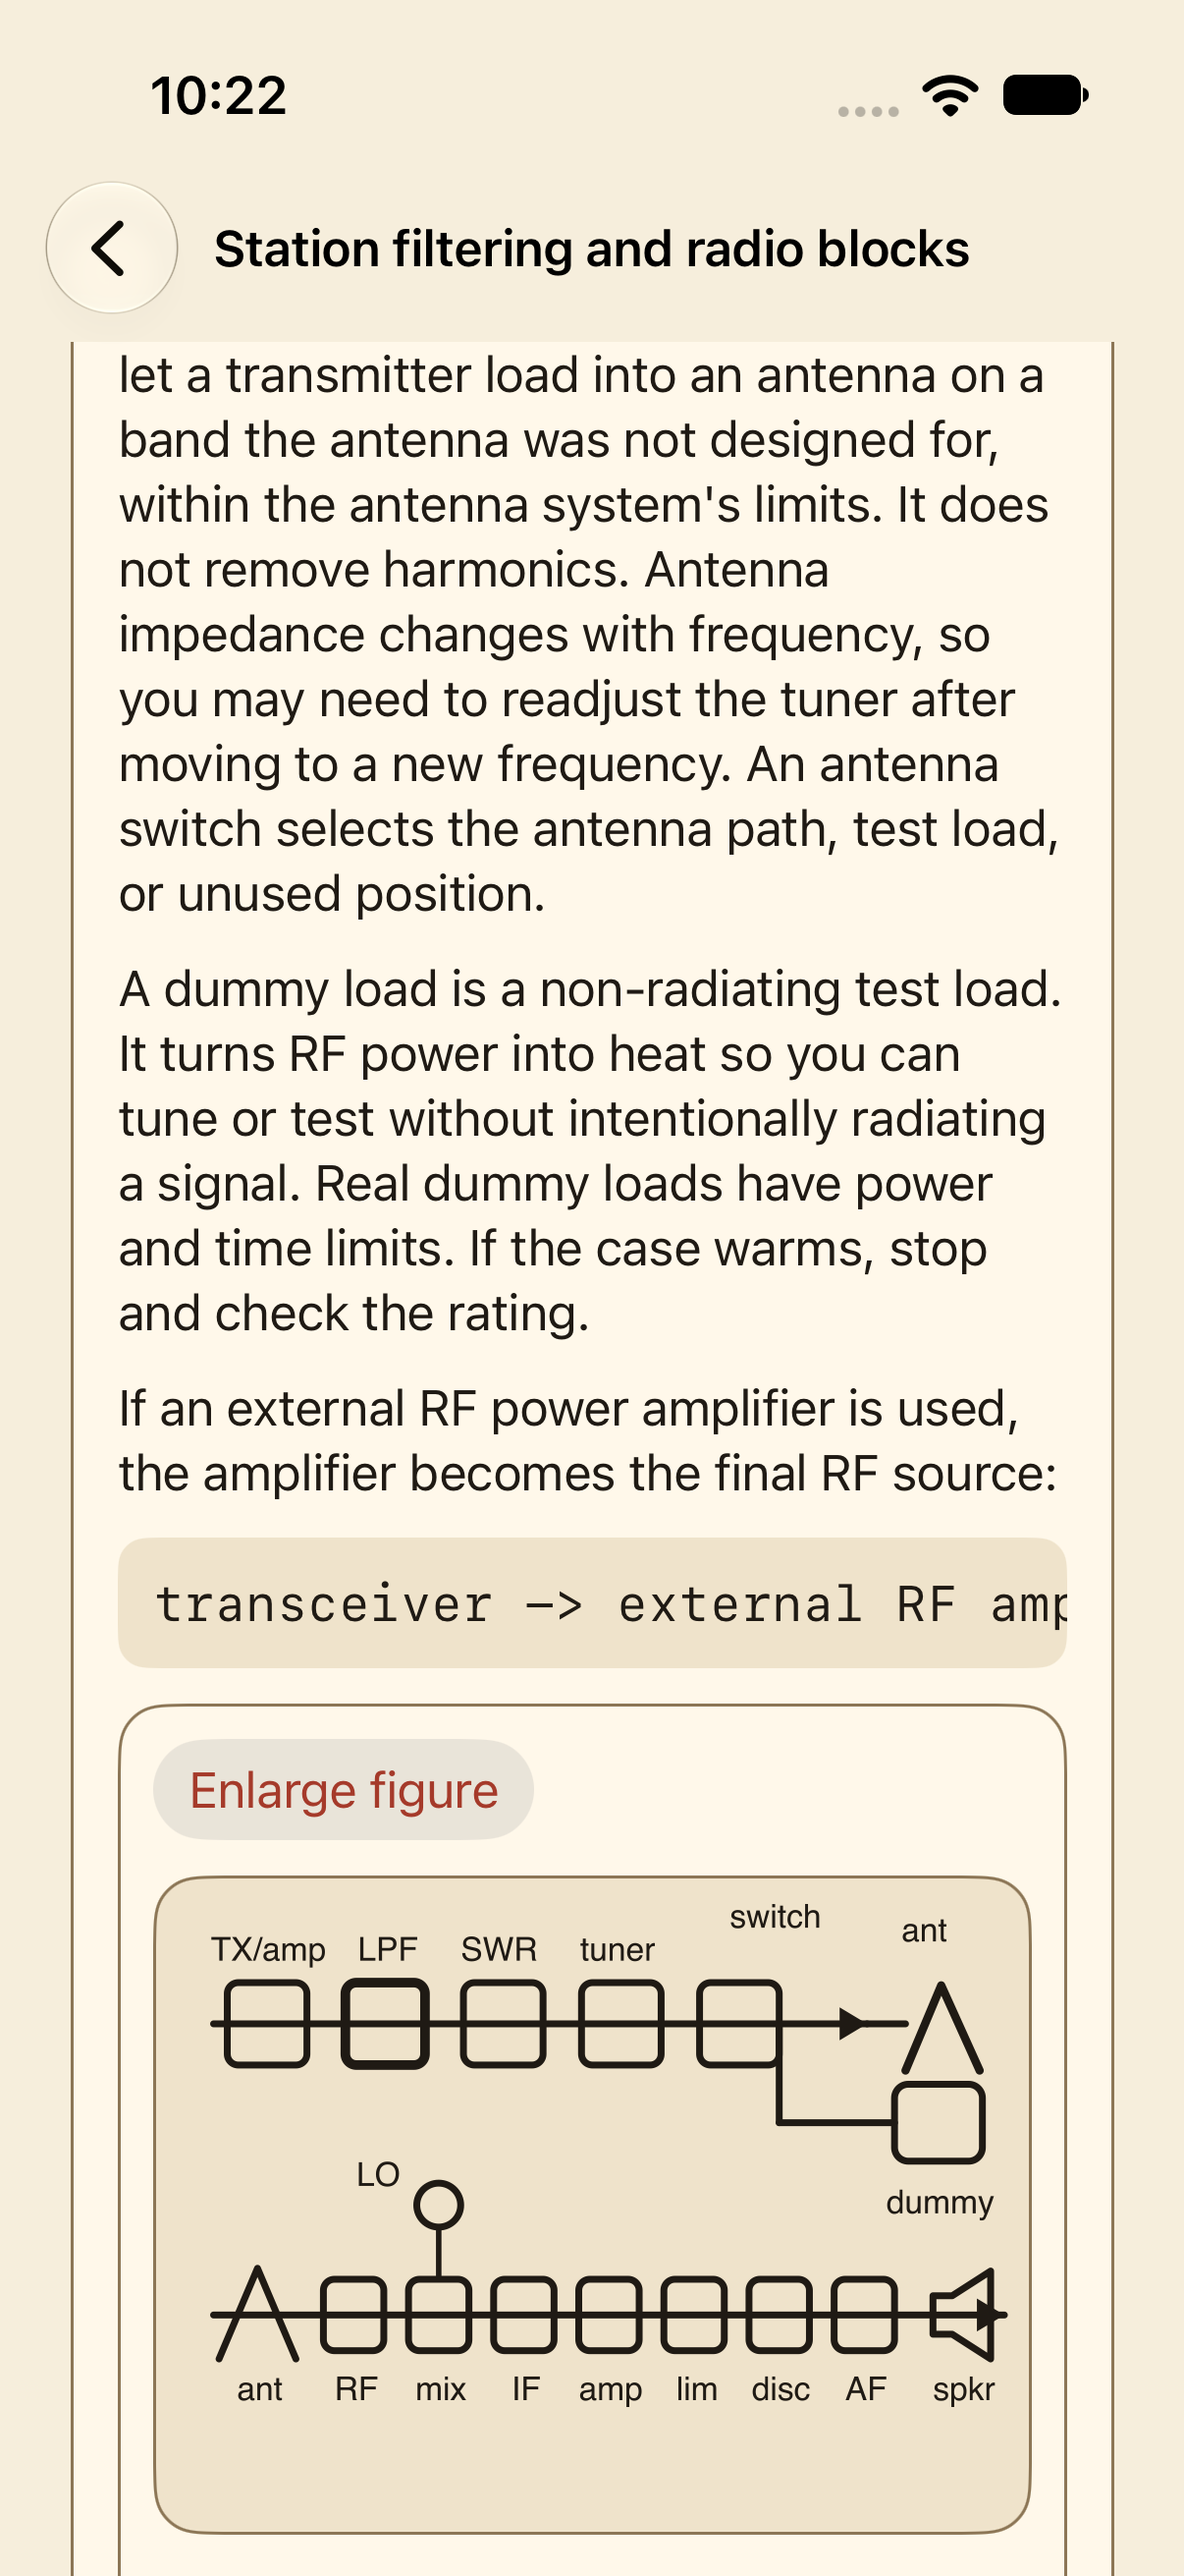
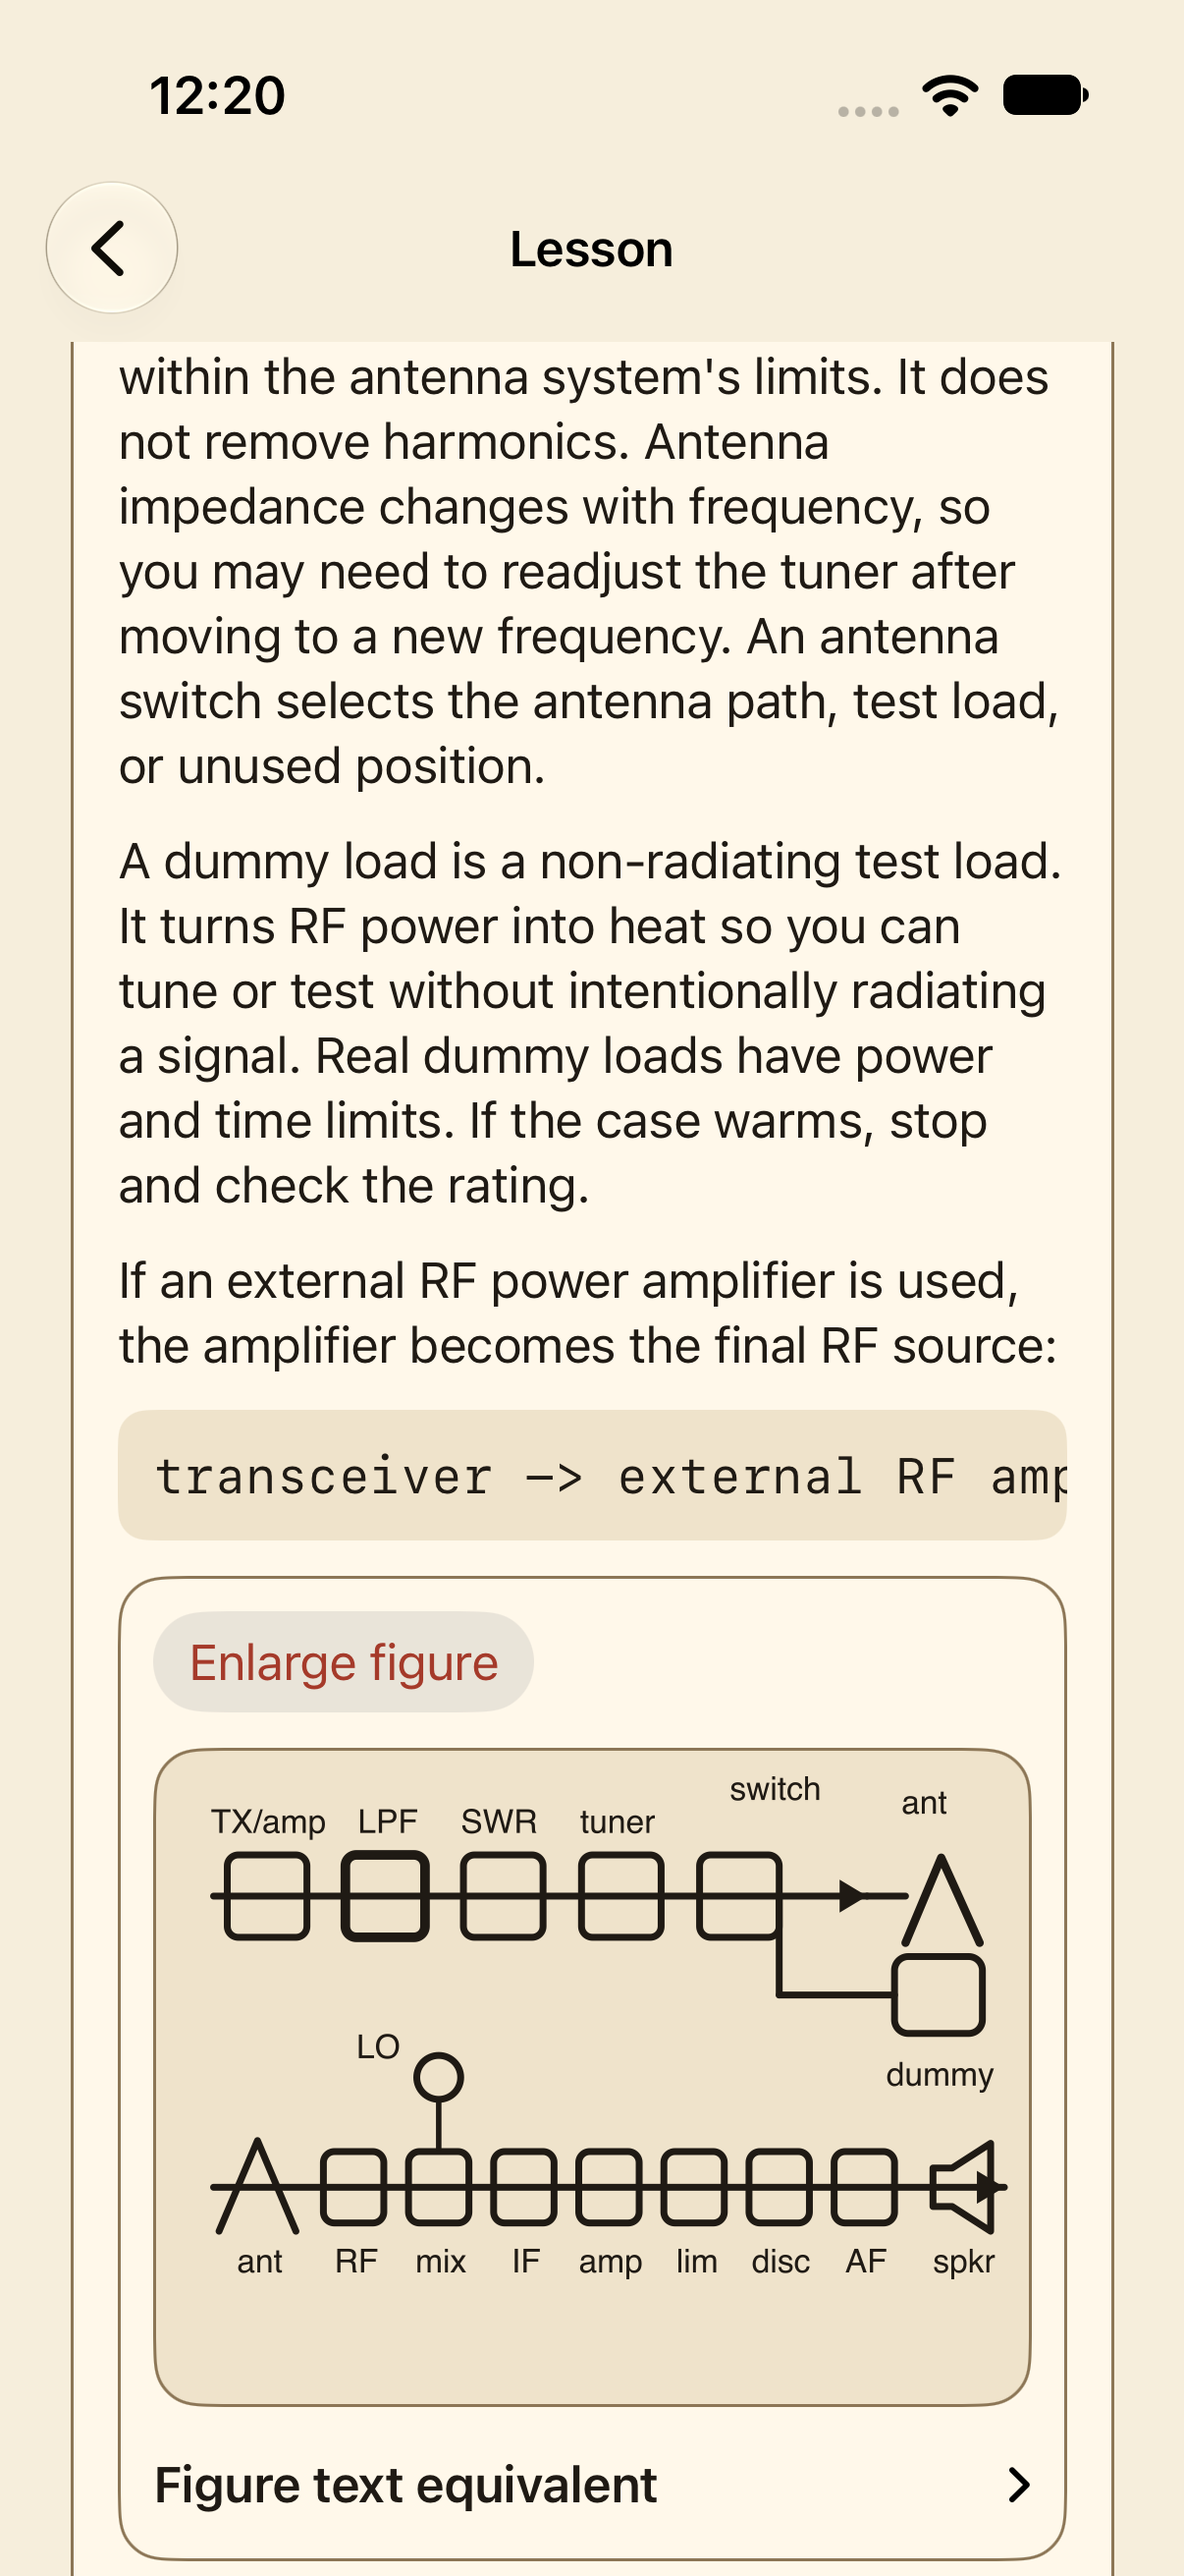
task-38: refresh figure evidence

Changed region(s): [[0.092, 0.0927, 0.9204, 1.0], [0.2148, 0.0309, 0.2454, 0.0618], [0.1534, 0.0309, 0.1841, 0.0618]]

diff --git a/apps/apple/CanadianHam/Views/LearnViews.swift b/apps/apple/CanadianHam/Views/LearnViews.swift
@@ -375,7 +375,10 @@ private struct LessonReaderView: View {
             .pagePadding()
         }
         .background(DesignTokens.Colors.paper)
-        .navigationTitle(Text(english(lesson.title.en))) // l10n: content(en)
+        .navigationTitle("Lesson")
+#if os(iOS)
+        .navigationBarTitleDisplayMode(.inline)
+#endif
         .lessonReaderOpaqueNavigationBar()
         .task { refresh() }
     }
